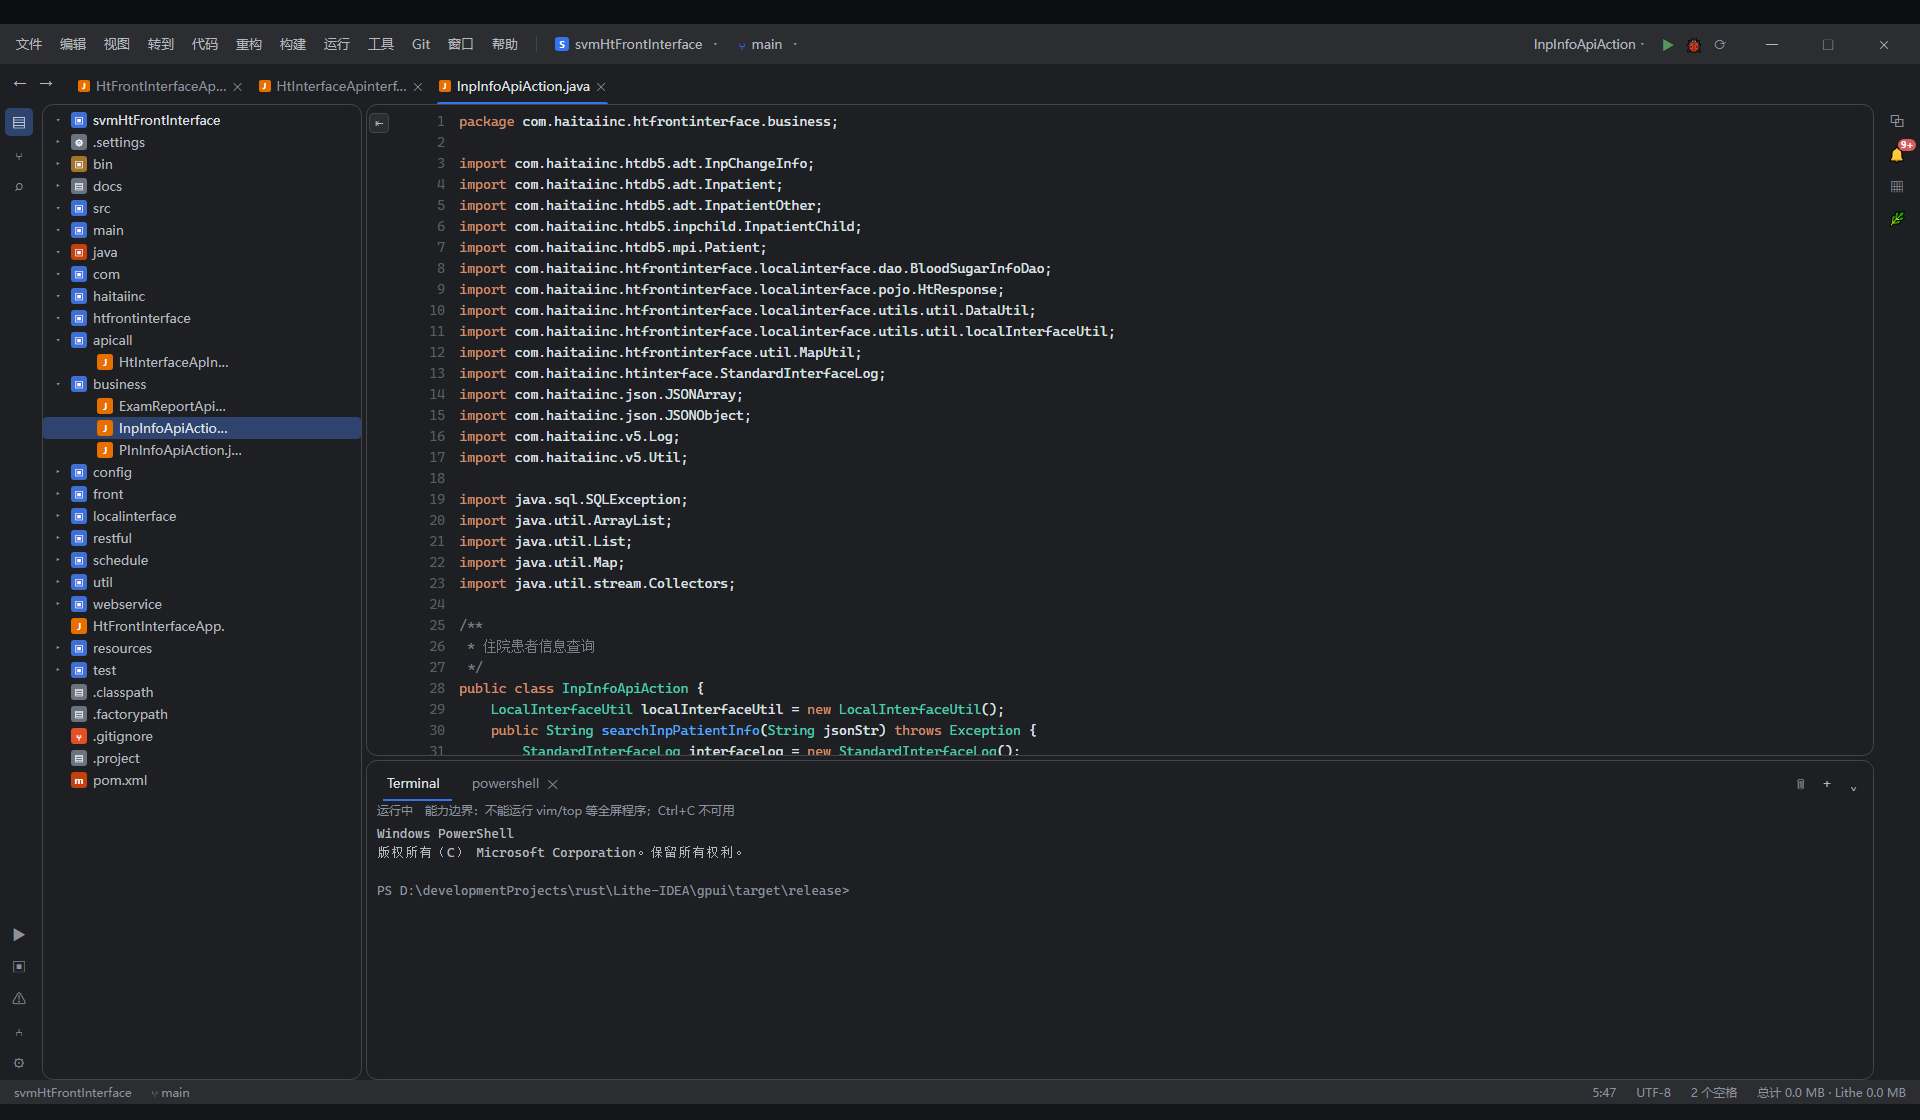
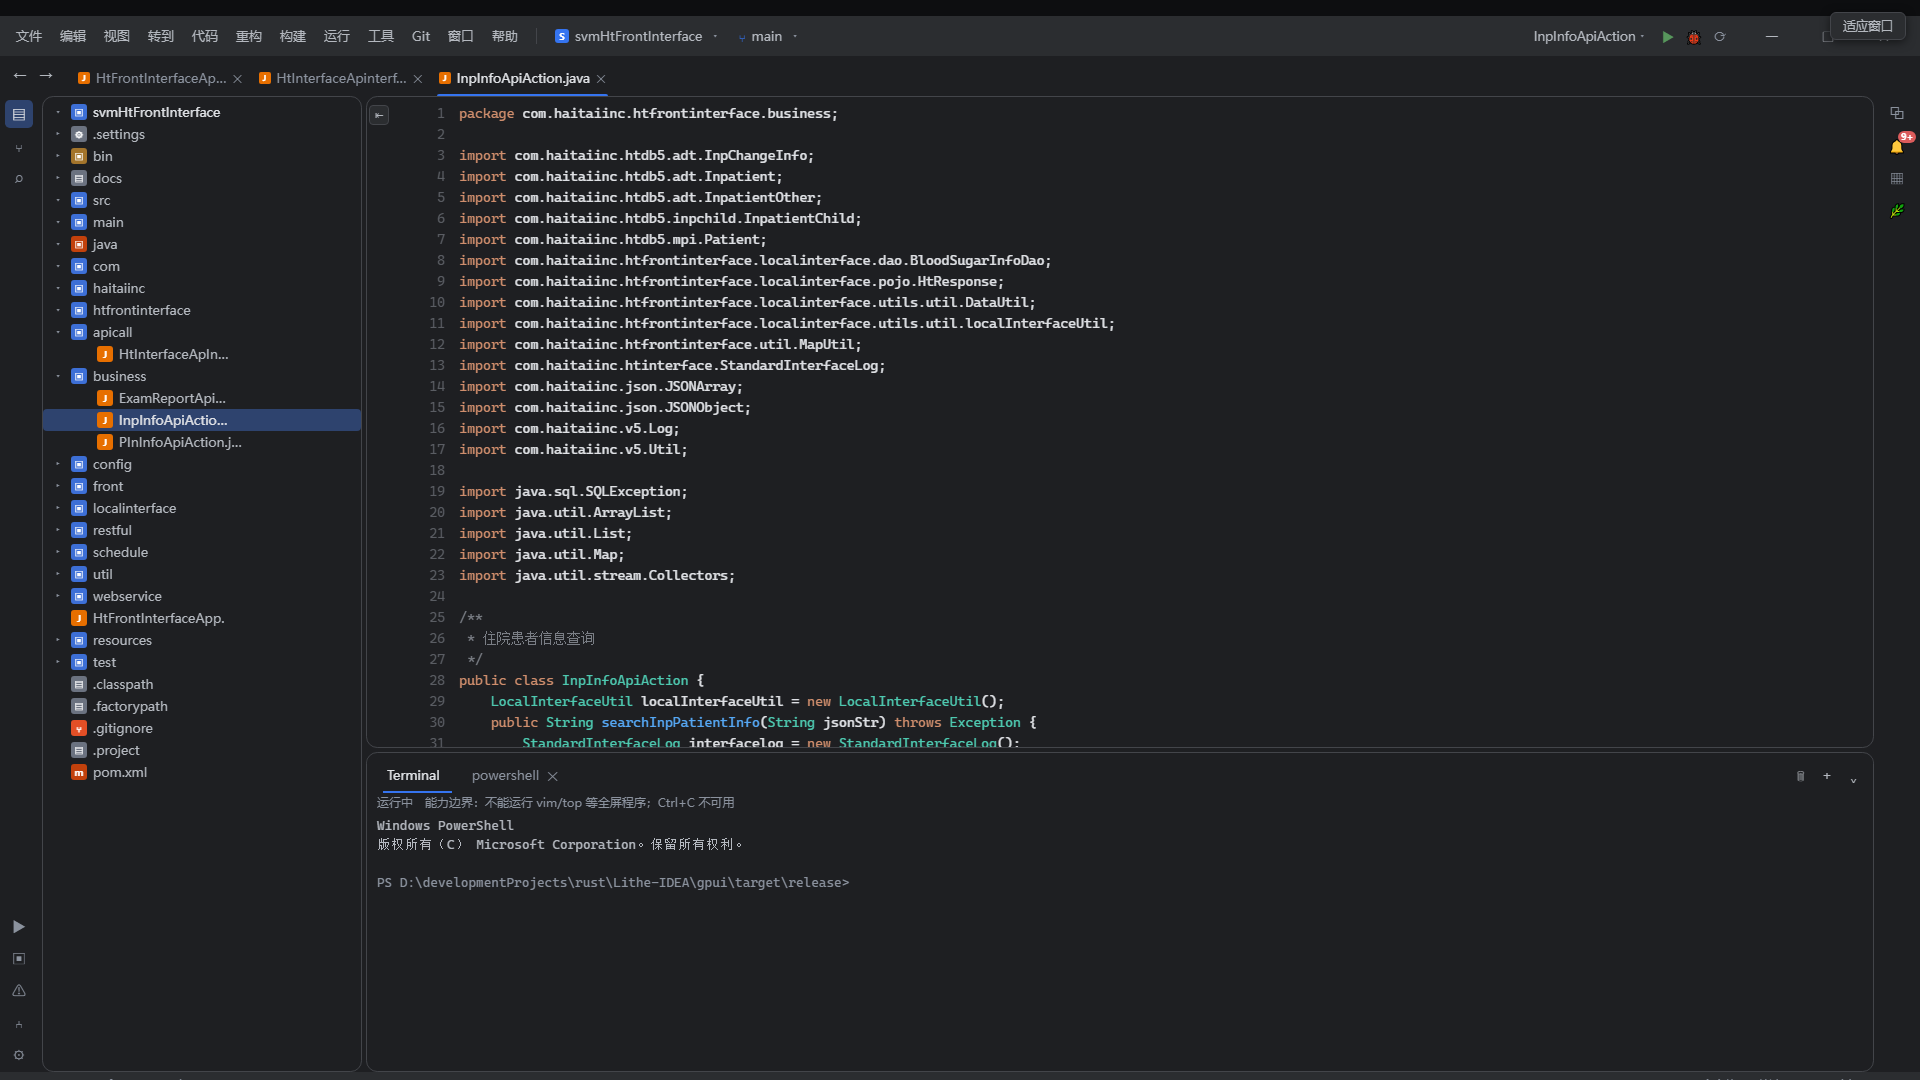
docs(gpui): 效果图 HTML 改为自适应缩放，打开即见完整界面
问题：稿子是固定 1920 宽，在窄窗口/高缩放的浏览器里打开会被横向裁掉
（维护者实测右侧终端与右活动栏看不到）。

改法：默认按窗口宽度等比缩放整张稿子（transform: scale），右上角按钮可在
「实际大小 / 适应窗口」之间切换，滚动或改窗口大小自动回到适应窗口；
自动化截图可加 ?scale=1 强制实际大小。PNG 重新按 1920x1080 出。

diff --git a/gpui/docs/ui-mockup-idea.html b/gpui/docs/ui-mockup-idea.html
@@ -34,7 +34,15 @@
     --ui:"Microsoft YaHei UI","Segoe UI",system-ui,sans-serif;
   }
   *{box-sizing:border-box;margin:0;padding:0}
-  body{background:#0d0e10;display:flex;justify-content:center;padding:24px;font-family:var(--ui)}
+  html{background:#0d0e10}
+  body{display:flex;flex-direction:column;align-items:center;min-height:100vh;padding:16px 0;
+       font-family:var(--ui)}
+  /* 自动缩放：把 1920 宽的稿子整体适配到当前窗口，保证"一眼看到全部" */
+  .wrap{width:1920px;transform-origin:top center;will-change:transform}
+  .fitbtn{position:fixed;right:14px;top:12px;z-index:99;background:#2b2d30;color:#b4b8bf;
+          border:1px solid #43454a;border-radius:6px;padding:5px 12px;font-size:12.5px;
+          cursor:pointer;font-family:var(--ui);box-shadow:0 2px 10px #0008}
+  .fitbtn:hover{background:#393b40;color:#dfe1e5}
   .app{width:1920px;height:1080px;background:var(--bg);color:var(--fg);
        display:flex;flex-direction:column;position:relative;overflow:hidden;flex-shrink:0}
 
@@ -163,11 +171,11 @@
 
   /* ── 图下只有一行标识（不是标注） ── */
   .caption{width:1920px;padding:14px 26px;color:#8b929e;font-size:13px;background:#141518;line-height:1.7}
-  .wrap{width:1920px}
 </style>
 </head>
 <body>
-<div class="wrap">
+<button class="fitbtn" id="fitbtn" type="button">实际大小</button>
+<div class="wrap" id="wrap">
 <div class="app" style="height:1080px">
 
   <!-- ① 标题栏 40 -->
@@ -358,5 +366,35 @@
   改动清单见 ui-mockup-idea.md。
 </div>
 </div>
+
+<script>
+/* 自适应缩放：默认把 1920 宽的稿子缩到窗口内，保证一眼看到全部内容。
+   · 右上角按钮切换「实际大小 / 适应窗口」
+   · 滚动或改窗口大小后自动回到「适应窗口」（除非你手动选了实际大小）
+   · 截图/自动化可加 ?scale=1 强制实际大小 */
+(function () {
+  var wrap = document.getElementById('wrap');
+  var btn = document.getElementById('fitbtn');
+  var manual = new URLSearchParams(location.search).get('scale') === '1';
+  var natural = 1920;
+
+  function apply() {
+    var avail = window.innerWidth - 32;
+    var s = (!manual && avail < natural) ? avail / natural : 1;
+    wrap.style.transform = 'scale(' + s + ')';
+    btn.textContent = s < 1 ? '实际大小' : '适应窗口';
+  }
+  btn.addEventListener('click', function () {
+    manual = !manual;
+    if (!manual) window.scrollTo(0, 0);
+    apply();
+  });
+  window.addEventListener('resize', apply);
+  window.addEventListener('scroll', function () {
+    if (manual && window.scrollY === 0) { manual = false; apply(); }
+  }, { passive: true });
+  apply();
+})();
+</script>
 </body>
 </html>
